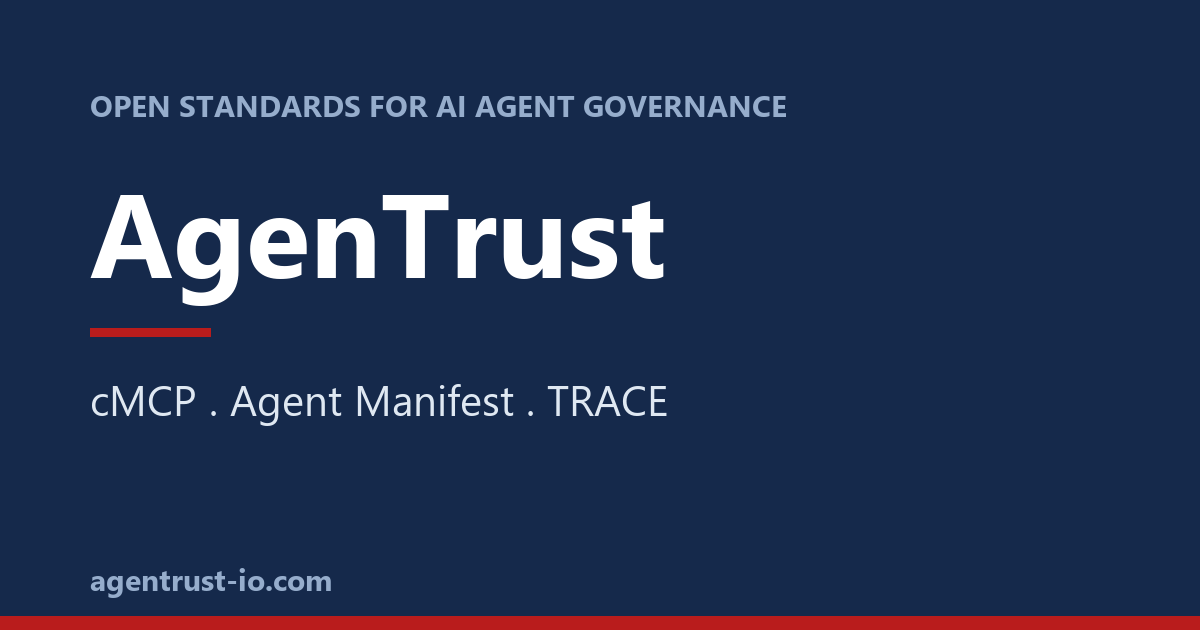
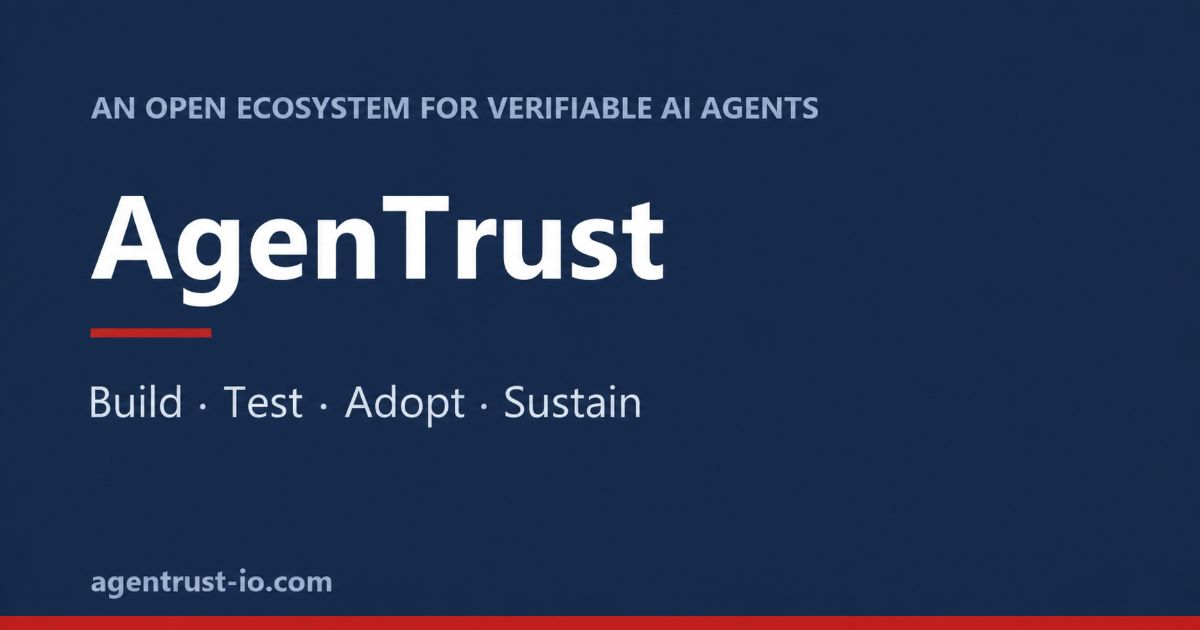
Reframe-AgenTrust-around-ecosystem-adoption

diff --git a/index.html b/index.html
@@ -3,8 +3,8 @@
 <head>
   <meta charset="UTF-8">
   <meta name="viewport" content="width=device-width, initial-scale=1.0">
-  <title>AgenTrust — Open Standards for AI Agent Governance</title>
-  <meta name="description" content="AgenTrust: open standards for governing AI agents at runtime. Home of cMCP, the confidential and secure way to run MCP, and cA2A, the secure profile for agent-to-agent (A2A) delegation, plus TRACE attestation and Agent Manifest identity.">
+  <title>AgenTrust — An Open Ecosystem for Verifiable AI Agents</title>
+  <meta name="description" content="AgenTrust is an open ecosystem where developers, researchers, operators, and enterprises build, test, adopt, and sustain verifiable governance for AI agents.">
   <link rel="canonical" href="https://agentrust-io.com/">
   <meta name="robots" content="index, follow">
 
@@ -17,19 +17,19 @@
   <!-- Open Graph -->
   <meta property="og:type" content="website">
   <meta property="og:site_name" content="AgenTrust">
-  <meta property="og:title" content="AgenTrust: Open Standards for AI Agent Governance">
-  <meta property="og:description" content="Open standards for governing AI agents at runtime. Home of cMCP, the confidential and secure way to run MCP, and cA2A, the secure profile for agent-to-agent (A2A) delegation, plus TRACE attestation and Agent Manifest identity.">
+  <meta property="og:title" content="AgenTrust: An Open Ecosystem for Verifiable AI Agents">
+  <meta property="og:description" content="Build, test, adopt, and sustain open technology for verifiable AI agent governance.">
   <meta property="og:url" content="https://agentrust-io.com/">
   <meta property="og:locale" content="en_US">
   <meta property="og:image" content="https://agentrust-io.com/og.png">
   <meta property="og:image:width" content="1200">
   <meta property="og:image:height" content="630">
-  <meta property="og:image:alt" content="AgenTrust: open standards for AI agent governance">
+  <meta property="og:image:alt" content="AgenTrust: an open ecosystem for verifiable AI agents">
 
   <!-- Twitter -->
   <meta name="twitter:card" content="summary_large_image">
-  <meta name="twitter:title" content="AgenTrust: Open Standards for AI Agent Governance">
-  <meta name="twitter:description" content="Open standards for governing AI agents at runtime. cMCP is the secure, confidential way to run MCP; cA2A is the secure profile for agent-to-agent (A2A) delegation. Plus TRACE and Agent Manifest.">
+  <meta name="twitter:title" content="AgenTrust: An Open Ecosystem for Verifiable AI Agents">
+  <meta name="twitter:description" content="Build, test, adopt, and sustain open technology for verifiable AI agent governance.">
   <meta name="twitter:image" content="https://agentrust-io.com/og.png">
 
   <!-- Structured data: Organization + WebSite -->
@@ -42,7 +42,7 @@
         "@id": "https://agentrust-io.com/#organization",
         "name": "AgenTrust",
         "url": "https://agentrust-io.com/",
-        "description": "Open standards, tools, and specifications for governing AI agents at runtime: attestation, identity, and trust verification.",
+        "description": "An open ecosystem where developers, researchers, operators, and enterprises build, test, adopt, and sustain verifiable governance for AI agents.",
         "sameAs": [
           "https://github.com/agentrust-io",
           "https://trace.agentrust-io.com",
@@ -123,7 +123,7 @@
         "name": "What is AgenTrust?",
         "acceptedAnswer": {
           "@type": "Answer",
-          "text": "AgenTrust is a set of open standards, tools, and specifications for governing AI agents at runtime. It provides cryptographic proof of an agent's identity, intent, and behavior through the TRACE attestation standard, the Agent Manifest identity standard, and the Confidential MCP protocol extension. All specifications are open source. Licences differ by project: Agent Manifest is Apache 2.0, cMCP and cA2A are MIT, and TRACE is dual licensed, CC BY 4.0 for the specification text and Apache 2.0 for the reference code."
+          "text": "AgenTrust is an open ecosystem for verifiable AI agent governance. Developers, researchers, operators, and enterprises can use its open specifications, implementations, test suites, and adoption guidance; contribute improvements; and help maintain the shared infrastructure over time."
         }
       },
       {
@@ -681,6 +681,11 @@
       line-height: 1.7;
     }
     .lead-copy + .lead-copy { margin-top: 1rem; }
+    .ecosystem-grid { display: grid; grid-template-columns: repeat(3, 1fr); gap: 1rem; }
+    .ecosystem-card { background: var(--surface); border: 1px solid var(--border); border-radius: 8px; padding: 1.4rem; }
+    .ecosystem-card h3 { color: var(--navy); font-size: 1rem; margin-bottom: 0.5rem; }
+    .ecosystem-card p { color: var(--muted); font-size: 0.9rem; line-height: 1.6; }
+    .pathway { margin-top: 1rem; padding: 1.25rem 1.4rem; border-left: 4px solid var(--green); background: #fff; color: var(--body); }
     .qa { max-width: 760px; }
     .qa-item { padding: 1.125rem 0; border-bottom: 1px solid var(--border); }
     .qa-item:first-child { border-top: 1px solid var(--border); }
@@ -704,6 +709,7 @@
       .trust-flow { grid-template-columns: 1fr; }
       .trust-step:not(:last-child)::after { content: "↓"; right: 1rem; top: auto; bottom: -0.7rem; }
       .header-nav { display: none; }
+      .ecosystem-grid { grid-template-columns: 1fr; }
     }
   </style>
 </head>
@@ -715,7 +721,8 @@
     <a href="/" class="logo">agentrust<span class="logo-dot">.</span>io</a>
     <nav>
       <ul class="header-nav">
-        <li><a href="#standards">Standards</a></li>
+        <li><a href="#ecosystem">Ecosystem</a></li>
+        <li><a href="#standards">Technology</a></li>
         <li><a href="#tools">Tools</a></li>
         <li><a href="#fellowship">Fellowship</a></li>
         <li><a href="https://github.com/agentrust-io">GitHub</a></li>
@@ -762,25 +769,25 @@
 <div class="fellowship" data-fellowship-banner data-closes="2026-08-30T00:00:00-07:00">
   <div class="fellowship-inner">
     <span class="fellowship-tag">Now hiring</span>
-    <span class="fellowship-text"><strong>AgenTrust Fellowship 2026.</strong> A six-month paid, part-time programme for three to five fellows working on verifiable AI agent infrastructure. Applications open 1 August and close 29 August 2026; the cohort starts in September.</span>
+    <span class="fellowship-text"><strong>AgenTrust Fellowship 2026.</strong> A six-month paid, part-time programme that develops maintainers for the verifiable AI ecosystem. Applications open 1 August and close 29 August 2026; the cohort starts in September.</span>
     <a class="fellowship-link" href="https://www.opaque.co/resources/articles/opaque-announces-applications-for-agentrust-fellowship-to-advance-open-standards-for-verifiable-ai-agents">Read the announcement &rarr;</a>
   </div>
 </div>
 
 <div class="hero">
   <div class="hero-inner">
-    <p class="hero-eyebrow">Open Standards &amp; Tools</p>
-    <h1>Govern AI Agents<br>at the Hardware Boundary</h1>
+    <p class="hero-eyebrow">Open Technology · Shared Stewardship · Real Adoption</p>
+    <h1>Build the ecosystem for<br>verifiable AI agents</h1>
     <div class="hero-promo">
       <span class="hero-promo-tag">New &middot; Hands-on</span>
       <span class="hero-promo-text">Don't just read the spec: <b>run cMCP yourself.</b> Write a policy, watch it block a data leak, verify a signed receipt.</span>
       <a class="hero-promo-link" href="/quickstart/">Try cMCP in under 10 minutes &rarr;</a>
     </div>
-    <p>AgenTrust provides open specifications, test infrastructure, and attestation tooling for organizations deploying AI agents in production, with cryptographic proof of identity, intent, and behavior. It is home to the confidential, security-hardened way to run MCP (cMCP) and the secure profile for agent-to-agent delegation on A2A (cA2A).</p>
+    <p>AgenTrust brings developers, researchers, operators, and enterprises together to turn open governance technology into infrastructure people can adopt and sustain. Build with the specifications, prove interoperability with the test suites, contribute deployment experience, and help maintain the ecosystem.</p>
     <div class="hero-actions">
       <a href="/quickstart/" class="btn btn-primary">Run the 10-minute demo →</a>
       <a href="#trust-stack" class="btn btn-ghost">Understand the trust stack</a>
-      <a href="#standards" class="btn btn-ghost">Browse specifications</a>
+      <a href="#ecosystem" class="btn btn-ghost">Find your adoption path</a>
     </div>
   </div>
 </div>
@@ -802,11 +809,37 @@
 
 <hr class="divider">
 
+<section class="section" id="ecosystem">
+  <div class="section-header">
+    <div class="section-label">From open technology to durable infrastructure</div>
+    <div class="section-title">An ecosystem built around adoption</div>
+  </div>
+  <div class="ecosystem-grid">
+    <article class="ecosystem-card"><h3>Use it</h3><p>Start with runnable demos, reference implementations, schemas, and conformance tests. Move from evaluation to a production pilot without waiting for a proprietary platform.</p></article>
+    <article class="ecosystem-card"><h3>Improve it</h3><p>Bring implementation feedback, integrations, threat models, deployment evidence, and research. Public repositories and issue trackers make the contribution path visible.</p></article>
+    <article class="ecosystem-card"><h3>Sustain it</h3><p>Grow maintainers, review contributions, document adoption patterns, and share stewardship across organizations so critical governance infrastructure outlives any one team.</p></article>
+  </div>
+  <div class="pathway"><strong>Adoption pathway:</strong> explore a ten-minute demo → test against the open suites → pilot one trust boundary → contribute results and integrations → help govern and maintain the shared infrastructure.</div>
+</section>
+
+<hr class="divider">
+
+<section class="section" id="community">
+  <div class="section-header">
+    <div class="section-label">Community governance</div>
+    <div class="section-title">Open work, visible decisions, more maintainers</div>
+  </div>
+  <p class="lead-copy">AgenTrust develops in public through open repositories, reviewable proposals, implementation evidence, and conformance testing. The goal is not simply to publish specifications: it is to create a contributor community capable of operating, improving, and stewarding the technology.</p>
+  <p class="lead-copy">Neutral standards homes remain important interoperability pathways. The ecosystem work around them—implementations, integrations, testing, documentation, training, adoption support, and maintainer succession—is what makes the technology useful and durable.</p>
+</section>
+
+<hr class="divider">
+
 <!-- Products -->
 <section class="section" id="standards">
   <div class="section-header">
-    <div class="section-label">Open Specifications</div>
-    <div class="section-title">Standards &amp; Protocols</div>
+    <div class="section-label">Open Technology</div>
+    <div class="section-title">Specifications, protocols, and shared building blocks</div>
   </div>
 
   <div class="product-grid">
@@ -1037,7 +1070,7 @@
     <div class="section-label">Get Involved</div>
     <h2>AgenTrust Fellowship 2026</h2>
   </div>
-  <p class="lead-copy">A six-month paid, part-time fellowship (20 hours per week) for three to five fellows working on open infrastructure for verifiable AI systems. It is aimed at security engineers, distributed systems researchers, AI governance and compliance professionals, and Ph.D. students. Fellows contribute code and specifications across the AgenTrust projects and complete a public technical artifact, such as a paper or a conference talk. Mentored by Imran Siddique, Chief Platform Officer at OPAQUE and creator of the Agent Governance Toolkit.</p>
+  <p class="lead-copy">A six-month paid, part-time fellowship (20 hours per week) for three to five emerging maintainers of open infrastructure for verifiable AI systems. It is aimed at security engineers, distributed systems researchers, AI governance and compliance professionals, and Ph.D. students. Fellows ship code, tests, integrations, documentation, and adoption guidance across AgenTrust projects while learning how to review contributions and sustain an open technical community. Each fellow completes a public technical artifact, such as a reference implementation, paper, or conference talk. Mentored by Imran Siddique, Chief Platform Officer at OPAQUE and creator of the Agent Governance Toolkit.</p>
   <p class="lead-copy" data-fellowship-status><strong>Applications are open through 29 August 2026</strong>, with the cohort starting in September. Selection is based on a technical proposal describing what you plan to contribute, so it is worth looking at the work before you apply: issues labelled <a href="https://github.com/search?q=org%3Aagentrust-io+is%3Aissue+is%3Aopen+label%3Afellowship&amp;type=issues"><code>fellowship</code></a> across trace-spec, cmcp, cA2A, and agent-manifest are real, currently-open work rather than exercises.</p>
   <div class="hero-actions">
     <a href="https://www.opaque.co/resources/articles/opaque-announces-applications-for-agentrust-fellowship-to-advance-open-standards-for-verifiable-ai-agents" class="btn btn-primary">Read the announcement &rarr;</a>
@@ -1050,7 +1083,7 @@
     <div class="section-label">Overview</div>
     <div class="section-title">What is AgenTrust?</div>
   </div>
-  <p class="lead-copy">AgenTrust is a set of open standards, tools, and specifications for governing AI agents at runtime. It gives operators cryptographic proof of an agent's identity, intent, and behavior, so that an agent running in production can be verified independently of the party that deployed it.</p>
+  <p class="lead-copy">AgenTrust is an open ecosystem for verifiable AI agent governance. It connects reusable technology with the people and practices needed to adopt it: maintainers, implementers, researchers, enterprise operators, conformance testing, integration guidance, and transparent community governance.</p>
   <p class="lead-copy">Four specifications work together, in the order an agent actually runs. <strong>Agent Manifest</strong> declares who an agent is and what it is allowed to do. <strong>Confidential MCP (cMCP)</strong> enforces that by evaluating tool calls against policy inside a Trusted Execution Environment, so tool-call plaintext is not readable from the host. <strong>Confidential A2A (cA2A)</strong> carries attenuated authority and attested provenance when work is delegated to another agent. <strong>TRACE</strong> proves what actually happened with signed receipts, hardware-attested when the gateway runs in a TEE. All four are open source, under Apache 2.0 for Agent Manifest, MIT for cMCP and cA2A, and CC BY 4.0 plus Apache 2.0 for TRACE.</p>
 </section>
 
@@ -1063,6 +1096,10 @@
     <div class="section-title">Frequently Asked Questions</div>
   </div>
   <div class="qa">
+    <div class="qa-item">
+      <div class="qa-q">Is AgenTrust a standards-development programme?</div>
+      <div class="qa-a">No. AgenTrust is an open-source ecosystem focused on adoption, implementation, interoperability, maintainer development, and long-term sustainability. Its open specifications are shared technical building blocks; community implementations, test infrastructure, integrations, documentation, and deployment evidence make those building blocks useful in practice.</div>
+    </div>
     <div class="qa-item">
       <div class="qa-q">What is TRACE?</div>
       <div class="qa-a">TRACE stands for Trust, Runtime Attestation, and Compliance Evidence. It defines hardware-rooted cryptographic receipts for every agent action, signed by the Trusted Execution Environment and verifiable by anyone.</div>
